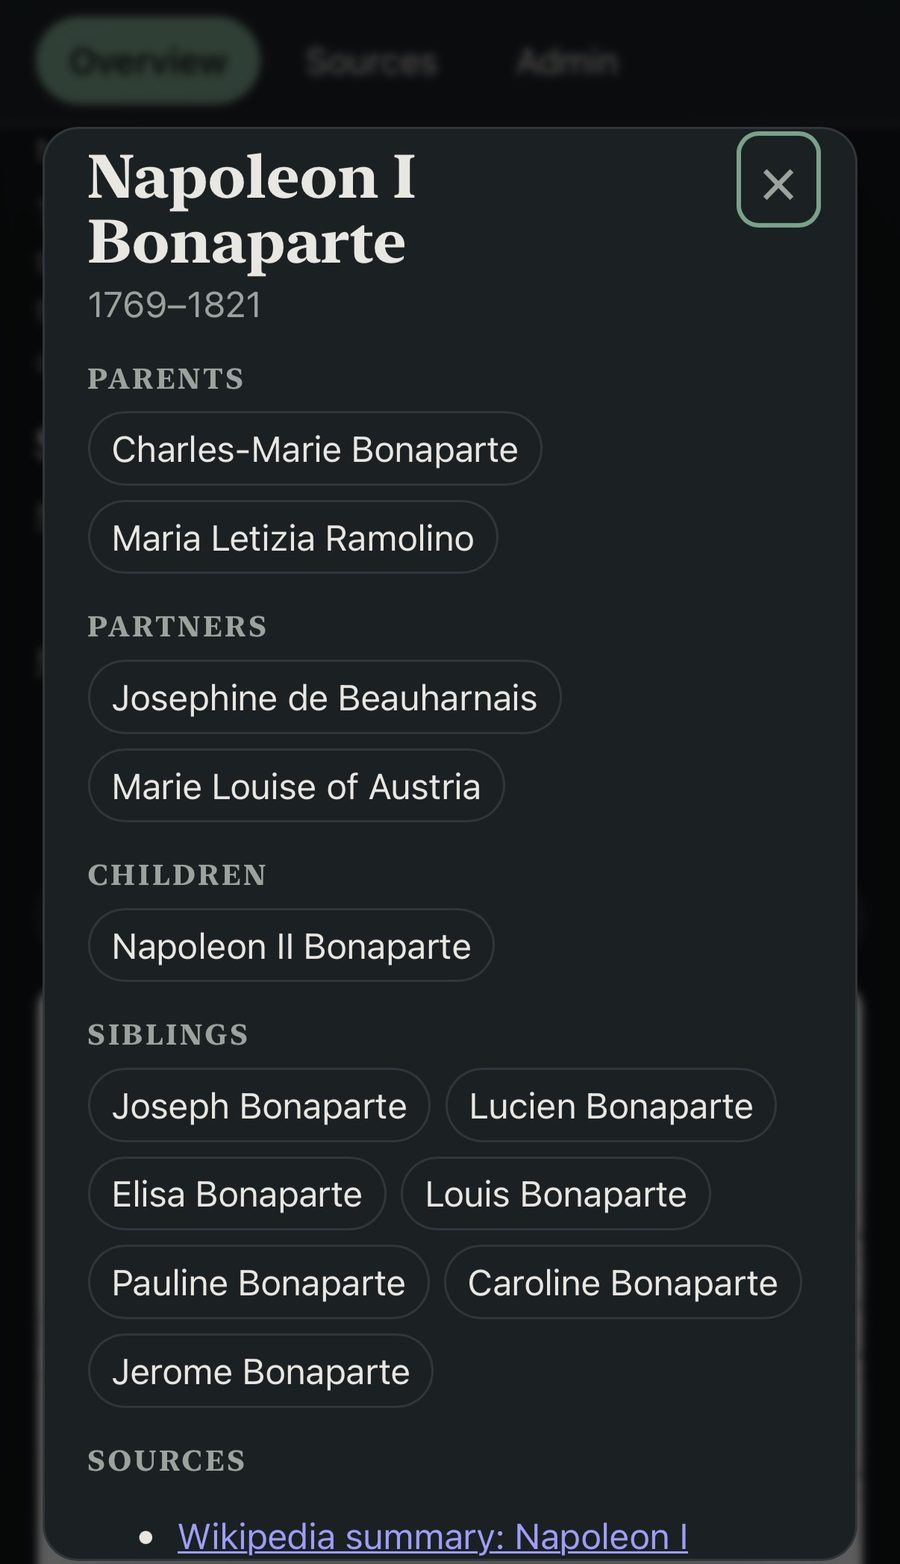
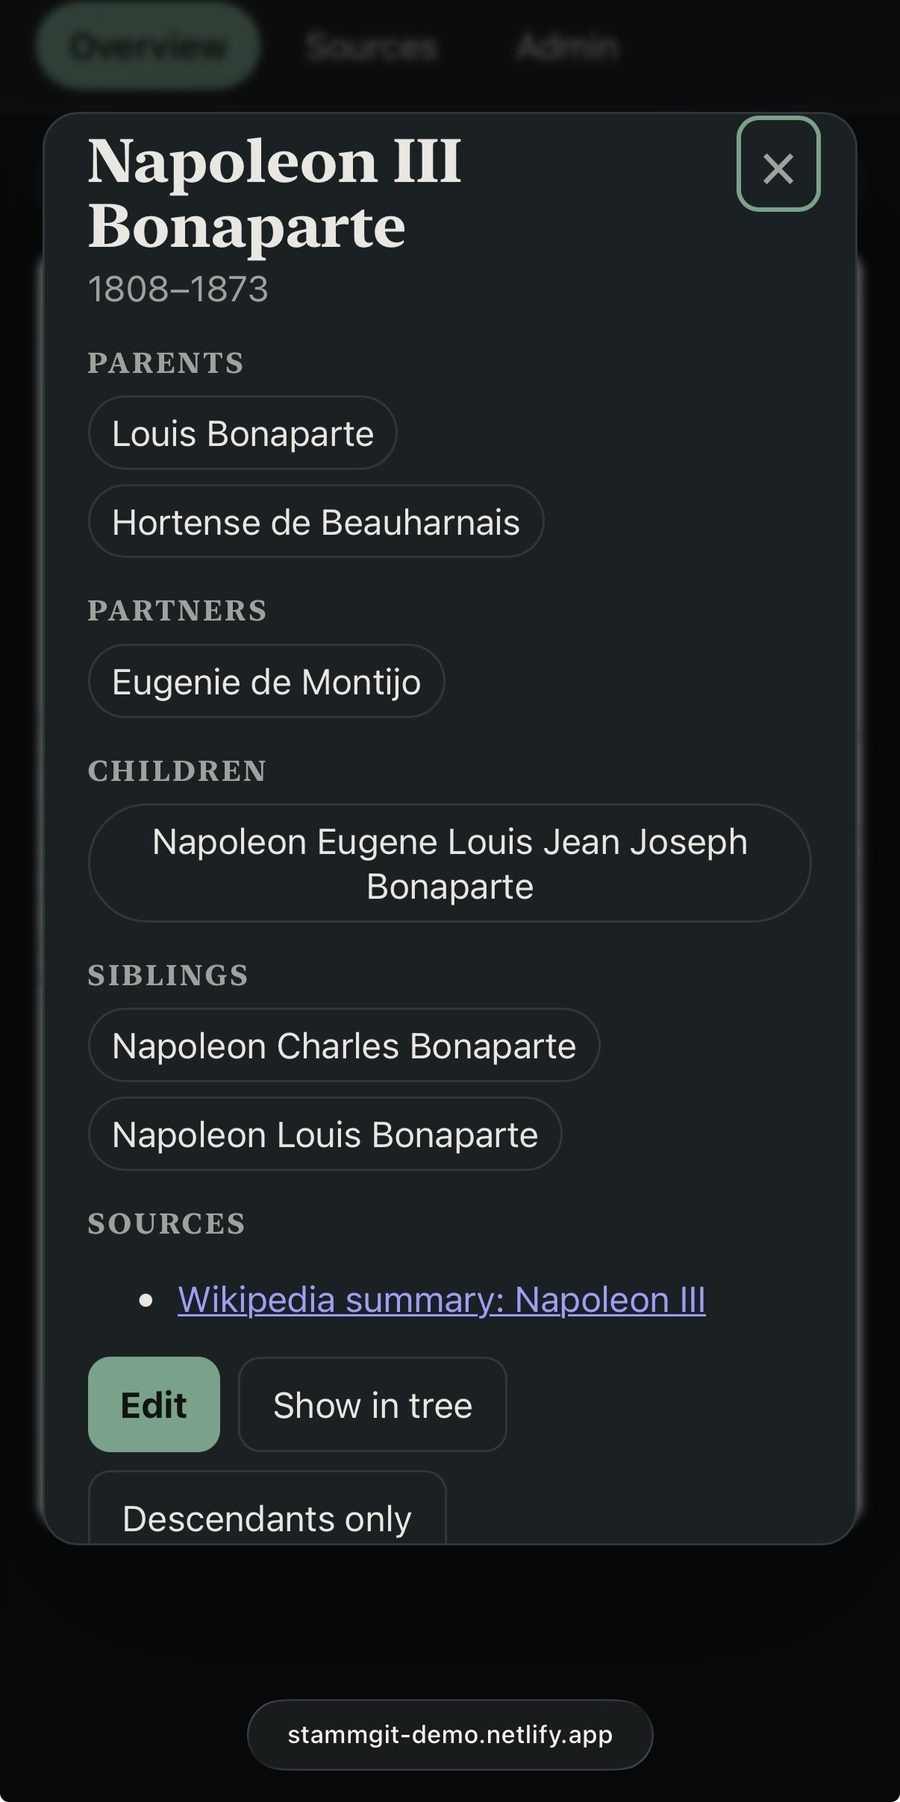
README: replace person dialog screenshot with Napoleon III (double parentage, view actions visible)

diff --git a/README.md b/README.md
@@ -16,7 +16,7 @@ sandbox and the repository stays untouched.
 <p align="center">
 <img src="docs/screenshots/overview-iphone.jpeg" width="290" alt="Overview with starting points and the Bonaparte tree">
 &nbsp;
-<img src="docs/screenshots/person-dialog-iphone.jpeg" width="290" alt="Person dialog: Napoleon I with parents, partners, children, siblings and sources">
+<img src="docs/screenshots/person-dialog-iphone.jpeg" width="290" alt="Person dialog: Napoleon III with the double parentage (Louis Bonaparte and Hortense de Beauharnais), sources and view actions">
 </p>
 
 ## Run it locally
